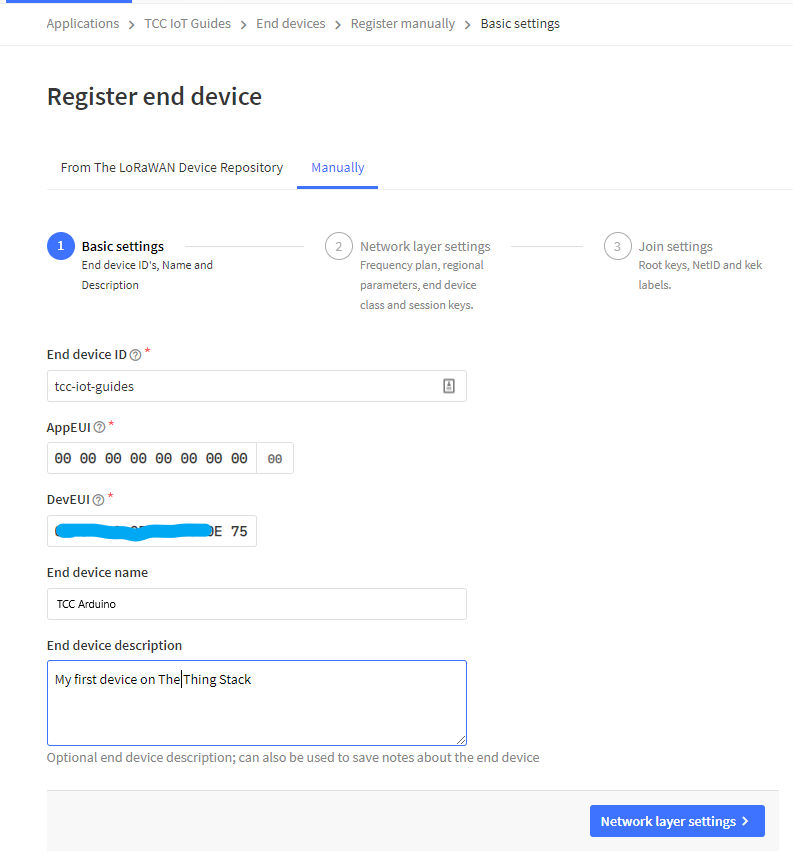
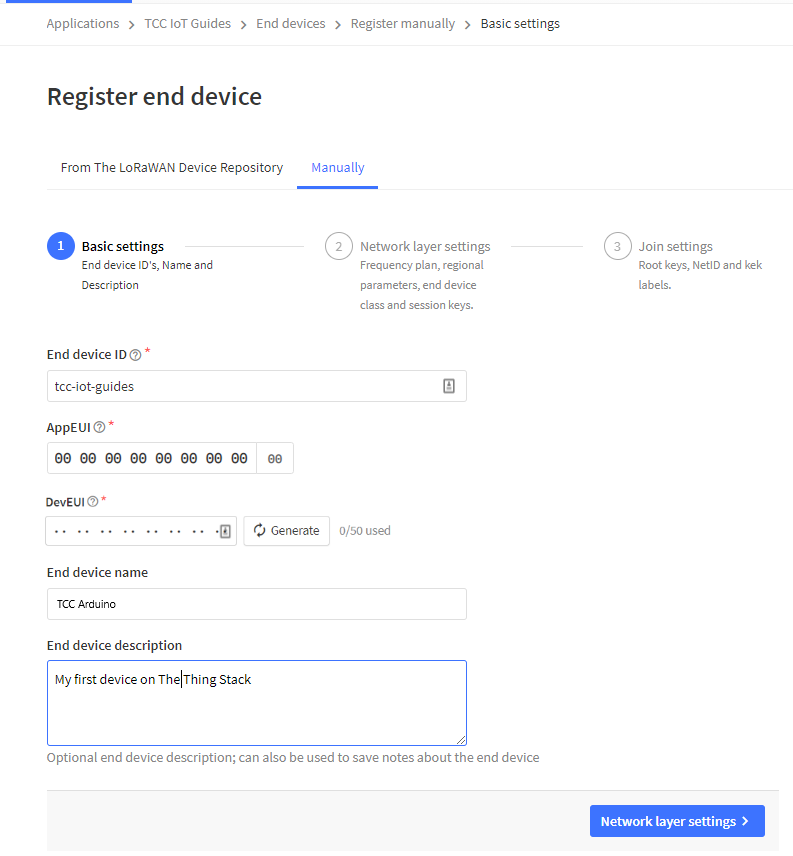
Update the dev EUI generation instructions

Changed region(s): [[0.0605, 0.5771, 0.4842, 0.6379]]

diff --git a/README.md b/README.md
@@ -97,13 +97,7 @@ Now that our environment is set up, we can prepare to connect it to The Things S
 1. Click `Start`
 1. Enter a unique name for the device ID.
 1. Press the `fill with zeros` button next to the AppEUI field
-
-> Currently The Things Stack does not have the ability to assign device EUI's for devices that do not have them. For now unless you have a spare DevEUI lying around we will have to use a workaround because the Dragino LoRa shield does not have an inbuilt DevEUI.
-13. Go to [random.org](https://www.random.org/bytes/)
-1. Set the site to generate 8 random hexadecimal bytes and click the `Get Bytes` button 
-1. Copy the resulting value into the DevEuI field on The Things Stack and replace the first pair of values with `00`.
-
-
+1. Click the `Generate` button next to the devEUI field
 1. Give your device a name and description
 1. Click `Network layer setting`.
 1. Set the Frequency plan as `Australia 915-928 MHz, FSB 2`
